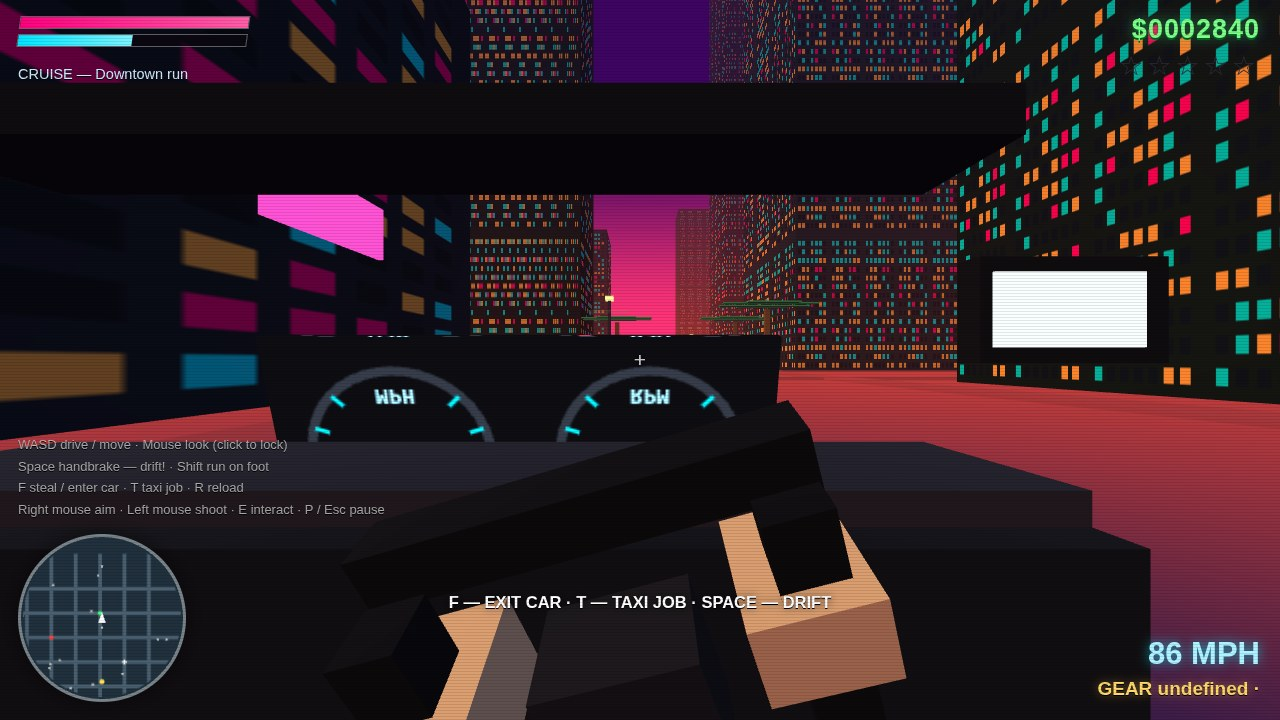
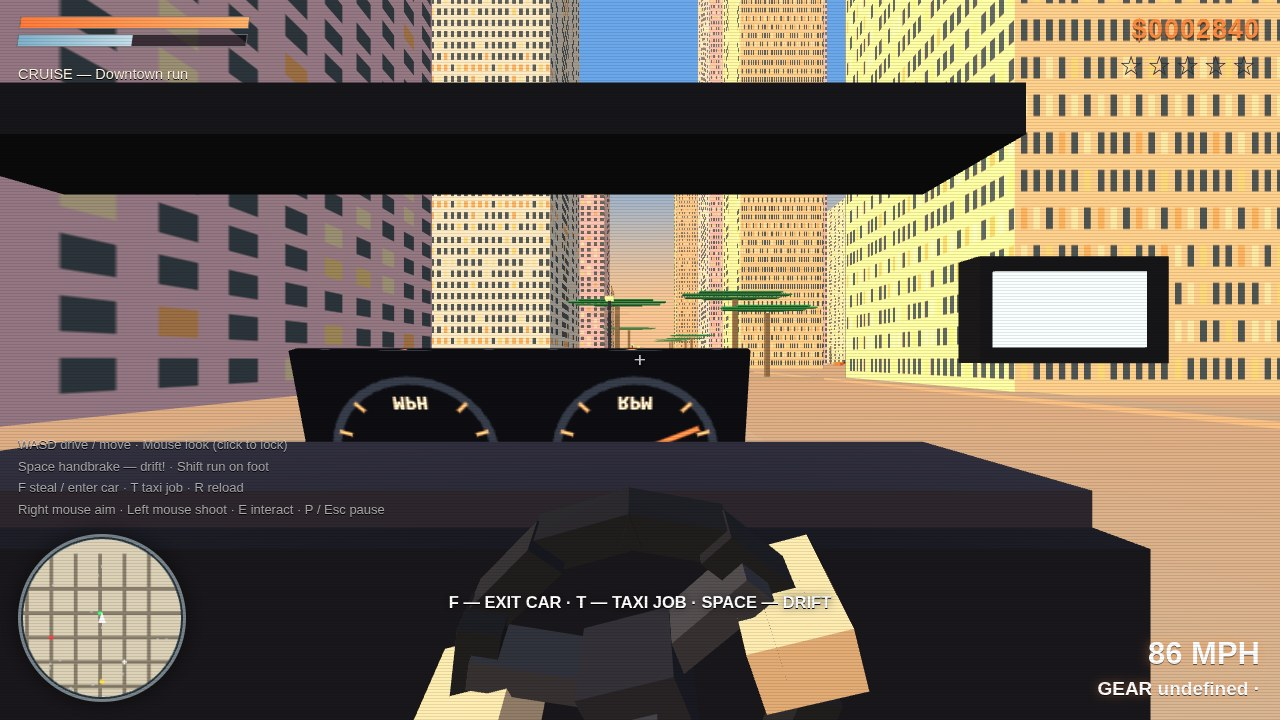
Art direction: Miami beach dusk — peach-to-sky-blue sky, golden sunlight, light peach haze (sigma 0.0042), pastel Art Deco facades (white/peach/mint/pink) with sparse warm window light, warm light-gray asphalt, sand sidewalks/beach, turquoise ocean, denser palms incl. beachfront rows, sparse pastel 

diff --git a/game/src/main.js b/game/src/main.js
@@ -37,8 +37,8 @@ function buildCityMeshes(s) {
   for (const b of city.buildings) texB[b.tex].box(b.x, 0, b.z, b.w, b.h, b.d, [1, 1, 1], Math.max(1, Math.round(b.h / 14)));
   const centers = roadCenters();
   for (const c of centers) {
-    road.quad([c - ROAD / 2, 0.01, -CITY_HALF - 40], [c + ROAD / 2, 0.01, -CITY_HALF - 40], [c + ROAD / 2, 0.01, CITY_HALF + 40], [c - ROAD / 2, 0.01, CITY_HALF + 40], [0, 1, 0], [0.30, 0.30, 0.36], 30);
-    road.quad([-CITY_HALF - 40, 0.01, c - ROAD / 2], [CITY_HALF + 40, 0.01, c - ROAD / 2], [CITY_HALF + 40, 0.01, c + ROAD / 2], [-CITY_HALF - 40, 0.01, c + ROAD / 2], [0, 1, 0], [0.30, 0.30, 0.36], 30);
+    road.quad([c - ROAD / 2, 0.01, -CITY_HALF - 40], [c + ROAD / 2, 0.01, -CITY_HALF - 40], [c + ROAD / 2, 0.01, CITY_HALF + 40], [c - ROAD / 2, 0.01, CITY_HALF + 40], [0, 1, 0], [0.92, 0.90, 0.87], 30);
+    road.quad([-CITY_HALF - 40, 0.01, c - ROAD / 2], [CITY_HALF + 40, 0.01, c - ROAD / 2], [CITY_HALF + 40, 0.01, c + ROAD / 2], [-CITY_HALF - 40, 0.01, c + ROAD / 2], [0, 1, 0], [0.92, 0.90, 0.87], 30);
     for (const zz of [-1, 1]) {
       walk.box(c + zz * (ROAD / 2 + 1), 0, 0, 2, 0.18, (CITY_HALF + 40) * 2, [1, 1, 1]);
       walk.box(0, 0, c + zz * (ROAD / 2 + 1), (CITY_HALF + 40) * 2, 0.18, 2, [1, 1, 1]);
@@ -53,15 +53,16 @@ function buildCityMeshes(s) {
       plain.box(c + k * 1.1, 0.035, c2 + ROAD / 2 - 1.2, 0.6, 0.02, 2.2, [0.9, 0.9, 0.92]);
     }
   }
-  plain.box(0, -0.05, 0, (CITY_HALF + 42) * 2, 0.1, (CITY_HALF + 42) * 2, [0.23, 0.22, 0.28]);
-  // ocean on the east flank + beach strip
-  plain.box(CITY_HALF + 120, -0.4, 0, 190, 0.1, (CITY_HALF + 60) * 2, [0.10, 0.35, 0.55]);
-  plain.box(CITY_HALF + 16, -0.02, 0, 26, 0.12, (CITY_HALF + 40) * 2, [0.92, 0.82, 0.58]);
+  plain.box(0, -0.05, 0, (CITY_HALF + 42) * 2, 0.1, (CITY_HALF + 42) * 2, [0.66, 0.60, 0.50]);
+  // turquoise ocean on the east flank + beach strip
+  plain.box(CITY_HALF + 120, -0.4, 0, 190, 0.1, (CITY_HALF + 60) * 2, [0.13, 0.72, 0.68]);
+  plain.box(CITY_HALF + 16, -0.02, 0, 26, 0.12, (CITY_HALF + 40) * 2, [0.93, 0.84, 0.62]);
   for (const pm of city.palms) {
-    plain.box(pm.x, 0, pm.z, 0.35, 4.6, 0.35, [0.45, 0.32, 0.2]);
-    for (let i = 0; i < 6; i++) {
-      const a = i / 6 * Math.PI * 2;
-      plain.box(pm.x + Math.sin(a) * 1.6, 4.6 + 0.3, pm.z + Math.cos(a) * 1.6, 3.4, 0.08, 0.7, [0.25, 0.75, 0.4]);
+    const sc = pm.s || 1;
+    plain.box(pm.x, 0, pm.z, 0.34 * sc, 4.8 * sc, 0.34 * sc, [0.52, 0.42, 0.30]);
+    for (let i = 0; i < 7; i++) {
+      const a = i / 7 * Math.PI * 2;
+      plain.box(pm.x + Math.sin(a) * 1.7 * sc, 4.8 * sc + 0.3, pm.z + Math.cos(a) * 1.7 * sc, 3.6 * sc, 0.08, 0.75 * sc, [0.18, 0.62, 0.33]);
     }
   }
   for (const l of city.lights) {
@@ -78,7 +79,7 @@ function buildCityMeshes(s) {
     const a = i / 26 * Math.PI * 2;
     if (Math.cos(a) > 0.35) continue;
     const d = CITY_HALF + 130 + (i % 5) * 30;
-    plain.box(Math.sin(a) * d, 0, Math.cos(a) * d, 34, 40 + (i * 37) % 70, 34, [0.16, 0.12, 0.24]);
+    plain.box(Math.sin(a) * d, 0, Math.cos(a) * d, 34, 40 + (i * 37) % 70, 34, [0.58, 0.65, 0.72]);
   }
   const lampDots = new Builder();
   for (const l of city.lights) lampDots.box(l.x, 5.2, l.z, 0.55, 0.3, 0.55, [1, 0.85, 0.5]);
@@ -165,25 +166,32 @@ function drawInterior(s, car) {
   R.box(q[0], q[1], q[2], car.ry, 2.05, 0.07, 0.42, [0.16, 0.15, 0.2]);
   // live instrument cluster (canvas texture, needles track speed/rpm)
   q = at(1.40, -0.05, 0.98);
-  R.panel(q[0], q[1], q[2], car.ry, 1.3, 0.62, 'dash', { pitch: -0.25 });
-  // steering wheel: open rim of bars, rotation = steer angle x 3.2 (WO Task 6)
+  R.panel(q[0], q[1], q[2], car.ry, 1.15, 0.55, 'dash', { pitch: -0.25 });
+  // steering wheel: slim ring (r=0.19) + three spokes, rotation = steer x 3.2
   const wheelRoll = -(car.phys ? car.phys.steerAngle : 0) * 3.2;
-  const wc = at(0.66, -0.35, 0.86);
+  const wc = at(0.70, -0.35, 0.84);
   const wob = (dx, dy) => {
     const cr = Math.cos(wheelRoll), sr = Math.sin(wheelRoll);
     const lx = dx * cr - dy * sr, ly = dx * sr + dy * cr;
     return [wc[0] + rx * lx, wc[1] + ly, wc[2] + rz * lx];
   };
+  const rimC = [0.13, 0.13, 0.15], spokeC = [0.22, 0.22, 0.25];
   let b;
-  b = wob(0, 0.21); R.box(b[0], b[1], b[2], car.ry, 0.5, 0.07, 0.07, [0.07, 0.07, 0.09], { pitch: -0.32, roll: wheelRoll });
-  b = wob(0, -0.21); R.box(b[0], b[1], b[2], car.ry, 0.5, 0.07, 0.07, [0.07, 0.07, 0.09], { pitch: -0.32, roll: wheelRoll });
-  b = wob(-0.21, 0); R.box(b[0], b[1], b[2], car.ry, 0.07, 0.36, 0.07, [0.07, 0.07, 0.09], { pitch: -0.32, roll: wheelRoll });
-  b = wob(0.21, 0); R.box(b[0], b[1], b[2], car.ry, 0.07, 0.36, 0.07, [0.07, 0.07, 0.09], { pitch: -0.32, roll: wheelRoll });
-  b = wob(0, -0.1); R.box(b[0], b[1], b[2], car.ry, 0.07, 0.22, 0.08, [0.2, 0.2, 0.24], { pitch: -0.32, roll: wheelRoll });
-  b = wob(0, 0); R.box(b[0], b[1], b[2], car.ry, 0.17, 0.17, 0.11, [0.12, 0.12, 0.15], { pitch: -0.32, roll: wheelRoll });
-  // driver hands on the wheel
-  b = wob(-0.2, 0.05); R.box(b[0], b[1], b[2], car.ry, 0.13, 0.1, 0.16, [0.92, 0.76, 0.6], { pitch: -0.32, roll: wheelRoll });
-  b = wob(0.2, 0.05); R.box(b[0], b[1], b[2], car.ry, 0.13, 0.1, 0.16, [0.92, 0.76, 0.6], { pitch: -0.32, roll: wheelRoll });
+  // ring: 12 short segments approximating a circle
+  for (let i = 0; i < 12; i++) {
+    const a = i / 12 * Math.PI * 2;
+    b = wob(Math.cos(a) * 0.19, Math.sin(a) * 0.19);
+    R.box(b[0], b[1], b[2], car.ry, 0.115, 0.048, 0.05, rimC, { pitch: -0.32, roll: wheelRoll + a + Math.PI / 2 });
+  }
+  // three spokes: down, lower-left, lower-right (classic 3-spoke layout)
+  for (const a of [-Math.PI / 2, -Math.PI / 2 - 2.1, -Math.PI / 2 + 2.1]) {
+    b = wob(Math.cos(a) * 0.095, Math.sin(a) * 0.095);
+    R.box(b[0], b[1], b[2], car.ry, 0.20, 0.042, 0.055, spokeC, { pitch: -0.32, roll: wheelRoll + a });
+  }
+  b = wob(0, 0); R.box(b[0], b[1], b[2], car.ry, 0.11, 0.11, 0.09, [0.16, 0.16, 0.19], { pitch: -0.32, roll: wheelRoll });
+  // driver hands gripping the rim at 9 and 3
+  b = wob(-0.19, 0.02); R.box(b[0], b[1], b[2], car.ry, 0.11, 0.09, 0.14, [0.92, 0.76, 0.6], { pitch: -0.32, roll: wheelRoll });
+  b = wob(0.19, 0.02); R.box(b[0], b[1], b[2], car.ry, 0.11, 0.09, 0.14, [0.92, 0.76, 0.6], { pitch: -0.32, roll: wheelRoll });
   for (const sd of [-1, 1]) {
     q = at(0.92, sd * 1.04, 1.3);
     R.box(q[0], q[1], q[2], car.ry, 0.3, 0.17, 0.05, [0.08, 0.08, 0.1]);
@@ -203,7 +211,7 @@ function drawGunView(s, eye, viewYaw, viewPitch, lowered = false) {
   R.box(gx, gy, gz, viewYaw, 0.09, 0.15, 0.46, [0.1, 0.1, 0.12], { pitch: viewPitch });
   R.box(gx + d[0] * 0.3, gy + d[1] * 0.3 + 0.02, gz + d[2] * 0.3, viewYaw, 0.05, 0.05, 0.26, [0.16, 0.16, 0.18], { pitch: viewPitch });
   R.box(gx - d[0] * 0.08 + rx * 0.02, gy - 0.13, gz - d[2] * 0.08 + rz * 0.02, viewYaw, 0.15, 0.11, 0.2, [0.92, 0.76, 0.6], { pitch: viewPitch });
-  if (!aim) R.box(gx - d[0] * 0.22 + rx * 0.1, gy - 0.3, gz - d[2] * 0.22 + rz * 0.1, viewYaw, 0.13, 0.13, 0.42, [0.95, 0.45, 0.75], { pitch: viewPitch + 0.5 });
+  if (!aim) R.box(gx - d[0] * 0.22 + rx * 0.1, gy - 0.3, gz - d[2] * 0.22 + rz * 0.1, viewYaw, 0.13, 0.13, 0.42, [0.97, 0.87, 0.72], { pitch: viewPitch + 0.5 });
 }
 function drawPerson(s, x, z, ry, color, o = {}) {
   const fx = Math.sin(ry), fz = Math.cos(ry);
@@ -239,7 +247,7 @@ function render(s, t) {
   R.draw(MESH.walk, IDM, { tex: 'walk' });
   for (let i = 0; i < 4; i++) R.draw(MESH.tex[i], IDM, { tex: 'b' + i });
   R.draw(MESH.lampDots, IDM, { emissive: true });
-  for (const sg of MESH.signs) R.box(sg.x, sg.y, sg.z, sg.ry, sg.w, sg.h, 0.18, sg.color, { emissive: true });
+  for (const sg of MESH.signs) R.box(sg.x, sg.y, sg.z, sg.ry, sg.w, sg.h, 0.18, sg.color);
   for (const l of MESH.lights) R.box(l.x, 4.4, l.z, 0, 2.6, 0.05, 2.6, [1, 0.8, 0.45], { alpha: 0.10 });
   const zz = s.city.zones;
   for (const key of ['gunshop', 'hospital', 'spray', 'contact', 'harbor']) {

diff --git a/game/css/style.css b/game/css/style.css
@@ -15,16 +15,16 @@ body::after {
 #hud { position: fixed; inset: 0; pointer-events: none; z-index: 20; display: none; }
 .bar-wrap { position: absolute; top: 16px; left: 18px; width: 230px; transform: skewX(-8deg); }
 .bar { height: 13px; background: rgba(10,6,16,.65); border: 1px solid rgba(255,255,255,.35); margin-bottom: 5px; }
-#health { height: 100%; width: 100%; background: linear-gradient(90deg, #FF007F, #ff5ea8); }
-#armor { height: 100%; width: 0%; background: linear-gradient(90deg, #00E5FF, #7df3ff); }
-#cash { position: absolute; top: 14px; right: 20px; font-size: 27px; font-weight: 800; color: #7dff8a; text-shadow: 0 2px 0 #062, 0 0 14px rgba(80,255,140,.5); letter-spacing: 1px; font-variant-numeric: tabular-nums; }
+#health { height: 100%; width: 100%; background: linear-gradient(90deg, #ff7b3c, #ffb36b); }
+#armor { height: 100%; width: 0%; background: linear-gradient(90deg, #7fb2cc, #c4dde9); }
+#cash { position: absolute; top: 14px; right: 20px; font-size: 27px; font-weight: 800; color: #ff8c42; text-shadow: 0 2px 0 rgba(60,30,0,.55), 0 0 12px rgba(255,160,80,.45); letter-spacing: 1px; font-variant-numeric: tabular-nums; }
 #stars { position: absolute; top: 50px; right: 20px; font-size: 27px; letter-spacing: 4px; color: #2A2A38; }
-#weapon { position: absolute; right: 20px; bottom: 20px; font-size: 19px; font-weight: 700; color: #ffd76a; text-shadow: 0 1px 0 #000, 0 0 10px rgba(255,190,60,.45); }
-#speed { position: absolute; right: 20px; bottom: 48px; font-size: 31px; font-weight: 800; color: #aef3ff; text-shadow: 0 0 12px rgba(0,229,255,.7); font-variant-numeric: tabular-nums; }
-#banner { position: absolute; top: 19%; width: 100%; text-align: center; font-size: 37px; font-weight: 900; font-style: italic; color: #ff4fd8; text-shadow: 0 3px 0 #30103a, 0 0 26px rgba(255,79,216,.75); display: none; letter-spacing: 1px; animation: bannerPulse 1.1s ease-in-out infinite alternate; }
+#weapon { position: absolute; right: 20px; bottom: 20px; font-size: 19px; font-weight: 700; color: #ffffff; text-shadow: 0 1px 0 rgba(0,0,0,.6), 0 0 10px rgba(255,140,66,.5); }
+#speed { position: absolute; right: 20px; bottom: 48px; font-size: 31px; font-weight: 800; color: #ffffff; text-shadow: 0 1px 0 rgba(0,0,0,.55), 0 0 12px rgba(255,150,70,.55); font-variant-numeric: tabular-nums; }
+#banner { position: absolute; top: 19%; width: 100%; text-align: center; font-size: 37px; font-weight: 900; font-style: italic; color: #ff7b3c; text-shadow: 0 3px 0 rgba(70,35,0,.6), 0 0 24px rgba(255,150,70,.6); display: none; letter-spacing: 1px; animation: bannerPulse 1.1s ease-in-out infinite alternate; }
 @keyframes bannerPulse { from { transform: scale(1); } to { transform: scale(1.035); } }
 #msg { position: absolute; top: 27%; width: 100%; text-align: center; font-size: 19px; font-weight: 700; color: #ffe9a8; text-shadow: 0 1px 0 #000; display: none; }
-#mission { position: absolute; top: 64px; left: 18px; max-width: 330px; font-size: 14.5px; line-height: 1.45; color: #cfe9ff; text-shadow: 0 1px 0 #000; }
+#mission { position: absolute; top: 64px; left: 18px; max-width: 330px; font-size: 14.5px; line-height: 1.45; color: #fff4e0; text-shadow: 0 1px 0 #000; }
 #timer { position: absolute; top: 30%; width: 100%; text-align: center; font-size: 31px; font-weight: 800; color: #ffdf5e; text-shadow: 0 2px 0 #000; }
 #prompt { position: absolute; bottom: 108px; width: 100%; text-align: center; font-size: 16.5px; font-weight: 700; color: #fff; text-shadow: 0 1px 0 #000, 0 0 10px rgba(0,0,0,.7); }
 #minimap { position: absolute; left: 18px; bottom: 18px; width: 168px; height: 168px; border-radius: 50%; border: 3px solid rgba(255,255,255,.4); background: #20303c; box-shadow: 0 0 22px rgba(0,0,0,.55); }
@@ -32,7 +32,7 @@ body::after {
 #bustfill { height: 100%; width: 0%; background: linear-gradient(90deg, #2a6cff, #9fd0ff); }
 #bustlabel { position: absolute; bottom: 216px; width: 100%; text-align: center; font-size: 21px; font-weight: 900; color: #9fd0ff; letter-spacing: 3px; }
 #crosshair { position: absolute; left: 50%; top: 50%; transform: translate(-50%, -50%); font-size: 21px; color: rgba(255,255,255,.85); text-shadow: 0 0 5px #000; }
-#overlay { position: fixed; inset: 0; display: none; flex-direction: column; align-items: center; justify-content: center; background: radial-gradient(ellipse at center, rgba(24,4,36,.25), rgba(10,2,18,.78)); z-index: 25; pointer-events: none; }
-#ovTitle { font-size: 74px; font-weight: 900; font-style: italic; letter-spacing: 2px; color: #ff4fd8; text-shadow: 0 4px 0 #123, 0 0 44px rgba(255,79,216,.85), 3px 3px 0 #00E5FF; animation: bannerPulse 1.2s ease-in-out infinite alternate; }
+#overlay { position: fixed; inset: 0; display: none; flex-direction: column; align-items: center; justify-content: center; background: radial-gradient(ellipse at center, rgba(70,40,20,.18), rgba(40,22,10,.62)); z-index: 25; pointer-events: none; }
+#ovTitle { font-size: 74px; font-weight: 900; font-style: italic; letter-spacing: 2px; color: #ffffff; text-shadow: 0 4px 0 rgba(70,35,0,.55), 0 0 44px rgba(255,150,70,.8), 3px 3px 0 #ff8c42; animation: bannerPulse 1.2s ease-in-out infinite alternate; }
 #ovSub { margin-top: 14px; font-size: 20px; color: #ffe9a8; text-shadow: 0 1px 0 #000; letter-spacing: 2px; }
 #help { position: fixed; left: 18px; bottom: 200px; font-size: 13px; line-height: 1.65; color: rgba(255,255,255,.62); text-shadow: 0 1px 0 #000; z-index: 15; pointer-events: none; }

diff --git a/game/src/gl/textures.js b/game/src/gl/textures.js
@@ -14,31 +14,31 @@ function lcg(seed) { let s = seed; return () => { s = (s * 16807) % 2147483647; 
 
 export function makeTextures(gl) {
   const out = {};
-  // Building facades: dark glass + lit windows (cyan / amber / pink mix).
+  // Building facades: pastel Art Deco walls, sparse warm-lit windows.
   const variants = [
-    { wall: '#131c2c', seed: 1234 }, { wall: '#18222e', seed: 555 },
-    { wall: '#1c1626', seed: 987 }, { wall: '#101a1a', seed: 313 },
+    { wall: '#f2ede2', seed: 1234 }, { wall: '#f6cf9f', seed: 555 },
+    { wall: '#bfe0cd', seed: 987 }, { wall: '#f4c3d2', seed: 313 },
   ];
   variants.forEach((v, vi) => {
     const c = document.createElement('canvas'); c.width = 128; c.height = 256;
     const g = c.getContext('2d');
     g.fillStyle = v.wall; g.fillRect(0, 0, 128, 256);
     const rnd = lcg(v.seed + vi * 777);
-    const litCols = ['#00F0FF', '#FFB347', '#FF007F', '#00F0FF', '#FFB347'];
-    for (let y = 8; y < 248; y += 16) {
-      for (let x = 8; x < 120; x += 16) {
+    const litCols = ['#ffd98a', '#ffb36b', '#ffe9bb'];
+    for (let y = 10; y < 246; y += 21) {
+      for (let x = 10; x < 118; x += 21) {
         const r = rnd();
-        g.fillStyle = r < 0.62 ? litCols[Math.floor(rnd() * litCols.length)] : '#0D1520';
-        g.fillRect(x, y, 10, 9);
+        g.fillStyle = r < 0.30 ? litCols[Math.floor(rnd() * litCols.length)] : '#46545e';
+        g.fillRect(x, y, 11, 12);
       }
     }
     out['b' + vi] = canvasTex(gl, c, true);
   });
-  // Road: wet dark asphalt with grain (used tinted on road quads).
+  // Road: warm light-gray asphalt with grain, sun-bleached.
   {
     const c = document.createElement('canvas'); c.width = 256; c.height = 256;
     const g = c.getContext('2d');
-    g.fillStyle = '#121118'; g.fillRect(0, 0, 256, 256);
+    g.fillStyle = '#5b5751'; g.fillRect(0, 0, 256, 256);
     const rnd = lcg(42);
     for (let i = 0; i < 5200; i++) {
       g.fillStyle = rnd() < 0.5 ? 'rgba(255,255,255,0.04)' : 'rgba(0,0,0,0.16)';
@@ -46,12 +46,12 @@ export function makeTextures(gl) {
     }
     out.road = canvasTex(gl, c, true);
   }
-  // Sidewalk pavers.
+  // Sidewalk pavers: warm sand stone.
   {
     const c = document.createElement('canvas'); c.width = 128; c.height = 128;
     const g = c.getContext('2d');
-    g.fillStyle = '#4A4753'; g.fillRect(0, 0, 128, 128);
-    g.strokeStyle = '#2B2933'; g.lineWidth = 3;
+    g.fillStyle = '#cfc0a0'; g.fillRect(0, 0, 128, 128);
+    g.strokeStyle = '#b3a184'; g.lineWidth = 3;
     for (let i = 0; i <= 128; i += 32) {
       g.beginPath(); g.moveTo(i, 0); g.lineTo(i, 128); g.stroke();
       g.beginPath(); g.moveTo(0, i); g.lineTo(128, i); g.stroke();
@@ -66,7 +66,7 @@ export function makeTextures(gl) {
     const gauge = (cx, label) => {
       g.strokeStyle = '#2a2f3a'; g.lineWidth = 5;
       g.beginPath(); g.arc(cx, 64, 46, 0, Math.PI * 2); g.stroke();
-      g.strokeStyle = '#00F0FF'; g.lineWidth = 2;
+      g.strokeStyle = '#ffb36b'; g.lineWidth = 2;
       for (let i = 0; i <= 10; i++) {
         const a = Math.PI * 0.75 + i * Math.PI * 1.5 / 10;
         g.beginPath();
@@ -74,7 +74,7 @@ export function makeTextures(gl) {
         g.lineTo(cx + Math.cos(a) * 45, 64 + Math.sin(a) * 45);
         g.stroke();
       }
-      g.fillStyle = '#9fe8ff'; g.font = 'bold 11px monospace'; g.textAlign = 'center';
+      g.fillStyle = '#ffe1b8'; g.font = 'bold 11px monospace'; g.textAlign = 'center';
       g.fillText(label, cx, 100);
     };
     gauge(64, 'MPH'); gauge(192, 'RPM');
@@ -103,7 +103,7 @@ export function drawDashTexture(gl, tex, mph, rpm) {
   const gauge = (cx, label, frac) => {
     g.strokeStyle = '#2a2f3a'; g.lineWidth = 5;
     g.beginPath(); g.arc(cx, 64, 46, 0, Math.PI * 2); g.stroke();
-    g.strokeStyle = '#00F0FF'; g.lineWidth = 2;
+    g.strokeStyle = '#ffb36b'; g.lineWidth = 2;
     for (let i = 0; i <= 10; i++) {
       const a = Math.PI * 0.75 + i * Math.PI * 1.5 / 10;
       g.beginPath();
@@ -112,9 +112,9 @@ export function drawDashTexture(gl, tex, mph, rpm) {
       g.stroke();
     }
     const na = Math.PI * 0.75 + Math.min(1, frac) * Math.PI * 1.5;
-    g.strokeStyle = '#FF3355'; g.lineWidth = 3;
+    g.strokeStyle = '#ff7b3c'; g.lineWidth = 3;
     g.beginPath(); g.moveTo(cx, 64); g.lineTo(cx + Math.cos(na) * 40, 64 + Math.sin(na) * 40); g.stroke();
-    g.fillStyle = '#9fe8ff'; g.font = 'bold 11px monospace'; g.textAlign = 'center';
+    g.fillStyle = '#ffe1b8'; g.font = 'bold 11px monospace'; g.textAlign = 'center';
     g.fillText(label, cx, 100);
   };
   gauge(64, 'MPH', mph / 120); gauge(192, 'RPM', rpm);

diff --git a/game/src/gl/shaders.js b/game/src/gl/shaders.js
@@ -20,17 +20,17 @@ uniform sampler2D uTex; uniform float uUseTex; uniform float uEmissive; uniform 
 uniform vec3 uSun; uniform vec3 uFogColor; uniform vec3 uHorizon; uniform vec3 uCam;
 void main(){
   if (uSky > 0.5) {
-    // Dusk gradient: zenith #FF5E36 family deepened to indigo, nadir #20002C.
-    float h = clamp(normalize(vWp - uCam).y * 1.15 + 0.44, 0.0, 1.0);
-    vec3 zen = vec3(0.24, 0.02, 0.38);
-    vec3 mid = vec3(1.0, 0.20, 0.47);   // #FF3377 horizon fire
-    vec3 nad = vec3(0.125, 0.0, 0.17);
-    vec3 col = mix(nad, mid, smoothstep(0.05, 0.5, h));
-    col = mix(col, zen, smoothstep(0.52, 1.0, h));
-    // sunset streak near the sun azimuth
+    // Miami dusk: peach-orange horizon melting up into soft sky blue.
+    float h = clamp(normalize(vWp - uCam).y * 1.3 + 0.34, 0.0, 1.0);
+    vec3 zen = vec3(0.42, 0.66, 0.92);   // soft sky blue
+    vec3 mid = vec3(0.98, 0.78, 0.58);   // peach
+    vec3 nad = vec3(0.99, 0.68, 0.45);   // warm horizon glow
+    vec3 col = mix(nad, mid, smoothstep(0.02, 0.42, h));
+    col = mix(col, zen, smoothstep(0.45, 1.0, h));
+    // golden sun glow near the sun azimuth
     vec3 dir = normalize(vWp - uCam);
     float sunAmt = pow(max(dot(normalize(vec3(dir.x, 0.0, dir.z)), normalize(vec3(uSun.x, 0.0, uSun.z))), 0.0), 6.0);
-    col += vec3(1.0, 0.45, 0.15) * sunAmt * (1.0 - abs(dir.y)) * 0.55;
+    col += vec3(1.0, 0.72, 0.35) * sunAmt * (1.0 - abs(dir.y)) * 0.5;
     gl_FragColor = vec4(col, 1.0);
     return;
   }
@@ -38,9 +38,9 @@ void main(){
   if (uUseTex > 0.5) base *= texture2D(uTex, vUv).rgb;
   vec3 n = normalize(vNorm);
   float diff = max(dot(n, normalize(uSun)), 0.0);
-  // Hemisphere ambient: warm dark ground bounce vs neon sky tint.
-  vec3 hemi = mix(vec3(0.30,0.20,0.30), vec3(0.45,0.52,0.62), n.y * 0.5 + 0.5);
-  vec3 col = base * (hemi + 0.75 * diff * vec3(1.0,0.63,0.25)); // sun #FFA040 x1.2
+  // Hemisphere ambient: bright sky bounce, warm sand ground bounce.
+  vec3 hemi = mix(vec3(0.55,0.49,0.40), vec3(0.66,0.73,0.84), n.y * 0.5 + 0.5);
+  vec3 col = base * (hemi + 0.95 * diff * vec3(1.0,0.82,0.55)); // warm golden sunlight
   // Wet-surface sheen: strong low-angle specular on upward faces, tinted by base.
   vec3 v = normalize(uCam - vWp);
   vec3 hv = normalize(v + normalize(uSun));
@@ -48,8 +48,8 @@ void main(){
   float fres = pow(1.0 - max(dot(n, v), 0.0), 3.0);
   col += (spec * 0.6 + fres * 0.10) * step(0.5, n.y) * mix(vec3(1.0), base + 0.35, 0.5);
   col = mix(col, base * 1.3, uEmissive);
-  // Exponential squared fog, sigma = 0.0075, purple depths into orange horizon.
-  float f = 1.0 - exp(-pow(vDist * 0.0075, 2.0));
+  // Light warm haze: exponential squared fog, sigma = 0.0042, peach tones.
+  float f = 1.0 - exp(-pow(vDist * 0.0042, 2.0));
   vec3 fogC = mix(uFogColor, uHorizon, clamp(1.0 - abs(normalize(vWp - uCam).y) * 2.2, 0.0, 1.0));
   col = mix(col, fogC, clamp(f, 0.0, 1.0));
   gl_FragColor = vec4(col, uAlpha);

diff --git a/game/src/game/world.js b/game/src/game/world.js
@@ -23,8 +23,8 @@ const PALETTE = [
   [0.96, 0.55, 0.75], [0.45, 0.85, 0.95], [0.98, 0.80, 0.45], [0.70, 0.60, 0.95],
   [0.55, 0.95, 0.70], [0.95, 0.65, 0.50], [0.85, 0.90, 0.98], [0.60, 0.75, 0.90],
 ];
-const NEON = [
-  [1.0, 0.25, 0.65], [0.2, 0.95, 1.0], [1.0, 0.85, 0.2], [0.55, 0.35, 1.0], [0.3, 1.0, 0.55],
+const NEON = [ // pastel shopfront signs (kept sparse, mostly unlit paint)
+  [0.98, 0.62, 0.50], [0.85, 0.93, 0.98], [0.98, 0.85, 0.60], [0.75, 0.90, 0.80], [0.96, 0.75, 0.82],
 ];
 
 export function genCity(seed) {
@@ -46,7 +46,7 @@ export function genCity(seed) {
         const h = downtown ? rng.range(70, 110) : beach ? rng.range(12, 30) : rng.range(20, 60);
         const b = { x: cx + ox, z: cz + oz, w, d, h, color: PALETTE[rng.int(0, PALETTE.length - 1)], tex: rng.int(0, 3), seed: rng.int(0, 9999) };
         buildings.push(b);
-        if (rng.chance(0.5)) {
+        if (rng.chance(0.2)) {
           const col = NEON[rng.int(0, NEON.length - 1)];
           const face = rng.int(0, 3);
           const sw = rng.range(4, 8), sh = rng.range(1.2, 2.2), sy = rng.range(3, Math.min(h - 2, 12));
@@ -60,10 +60,15 @@ export function genCity(seed) {
       }
       const e = lot / 2 + 2.2;
       for (const [ox, oz] of [[-e, -e], [e, -e], [-e, e], [e, e]]) {
-        if (rng.chance(0.55)) palms.push({ x: cx + ox, z: cz + oz, s: rng.range(0.8, 1.3), lean: rng.range(-0.12, 0.12) });
+        if (rng.chance(0.78)) palms.push({ x: cx + ox, z: cz + oz, s: rng.range(0.85, 1.45), lean: rng.range(-0.12, 0.12) });
         else if (rng.chance(0.6)) lights.push({ x: cx + ox, z: cz + oz });
       }
     }
+  }
+  // Beachfront palm rows along the east promenade.
+  for (let z = -CITY_HALF + 4; z < CITY_HALF - 2; z += 11) {
+    palms.push({ x: CITY_HALF - 3.5, z: z + rng.range(-1.5, 1.5), s: rng.range(1.0, 1.5), lean: rng.range(-0.1, 0.16) });
+    if (rng.chance(0.6)) palms.push({ x: CITY_HALF - 9, z: z + 5 + rng.range(-1, 1), s: rng.range(0.9, 1.3), lean: rng.range(-0.14, 0.1) });
   }
   const centers = roadCenters();
   for (let i = 0; i < 90; i++) {

diff --git a/game/src/game/hud.js b/game/src/game/hud.js
@@ -10,13 +10,13 @@ export function drawMinimap(s, mm) {
   mm.clearRect(0, 0, W, W);
   mm.save();
   mm.beginPath(); mm.arc(cx, cy, cx - 2, 0, 7); mm.clip();
-  mm.fillStyle = '#20303c'; mm.fillRect(0, 0, W, W);
+  mm.fillStyle = '#ddd2b8'; mm.fillRect(0, 0, W, W);
   mm.translate(cx, cy);
   mm.rotate(-yaw);
   const scale = 0.55; // px per metre
   mm.scale(scale, scale);
   mm.translate(-s.player.x, -s.player.z);
-  mm.strokeStyle = '#4a6070'; mm.lineWidth = 7;
+  mm.strokeStyle = '#8a7f6d'; mm.lineWidth = 7;
   for (const c of roadCenters()) {
     mm.beginPath(); mm.moveTo(c, -CITY_HALF - 20); mm.lineTo(c, CITY_HALF + 20); mm.stroke();
     mm.beginPath(); mm.moveTo(-CITY_HALF - 20, c); mm.lineTo(CITY_HALF + 20, c); mm.stroke();
@@ -58,7 +58,7 @@ export function updateHUD(s, ui, nearCarFn) {
   ui.speed.textContent = car ? mph(car.speed) + ' MPH' : '';
   ui.banner.style.display = s.bannerT > 0 ? 'block' : 'none';
   ui.banner.textContent = s.banner || '';
-  ui.banner.style.color = s.bannerColor || '#ff4fd8';
+  ui.banner.style.color = s.bannerColor || '#ff7b3c';
   ui.msg.style.display = s.msgT > 0 ? 'block' : 'none';
   ui.msg.textContent = s.msg || '';
   const m = s.mission, tx = s.taxi;
@@ -89,7 +89,7 @@ export function updateHUD(s, ui, nearCarFn) {
   if (ov) {
     ui.overlay.style.display = 'flex';
     ui.ovTitle.textContent = ov[0];
-    ui.ovTitle.style.color = s.mode === 'busted' ? '#6ab0ff' : s.mode === 'wasted' ? '#ff5252' : '#ff4fd8';
+    ui.ovTitle.style.color = s.mode === 'busted' ? '#6ab0ff' : s.mode === 'wasted' ? '#ff5252' : '#ff8c42';
     ui.ovSub.textContent = s.mode === 'busted' ? `Fine paid: $${s.fine || 0} · Click to continue`
       : s.mode === 'wasted' ? 'Hospital bill $150 · Click to continue' : ov[1];
   } else ui.overlay.style.display = 'none';

diff --git a/game/src/gl/renderer.js b/game/src/gl/renderer.js
@@ -76,9 +76,9 @@ export class Renderer {
       cam: U('uCam'), alpha: U('uAlpha'), sky: U('uSky'),
     };
     gl.enable(gl.DEPTH_TEST);
-    gl.clearColor(0.12, 0.0, 0.17, 1.0);
-    this.fogColor = [0.24, 0.11, 0.28];   // #3D1B48
-    this.horizon = [0.83, 0.25, 0.23];    // #D4413B
+    gl.clearColor(0.99, 0.76, 0.56, 1.0);
+    this.fogColor = [0.99, 0.80, 0.62];   // warm peach haze
+    this.horizon = [1.0, 0.70, 0.47];     // golden horizon
     this.sunDir = (() => { const v = [0.8, 0.25, -0.5]; const l = Math.hypot(...v); return v.map(x => x / l); })();
     this.textures = makeTextures(gl);
     console.log('WebGL Initialized: 60 FPS target');
